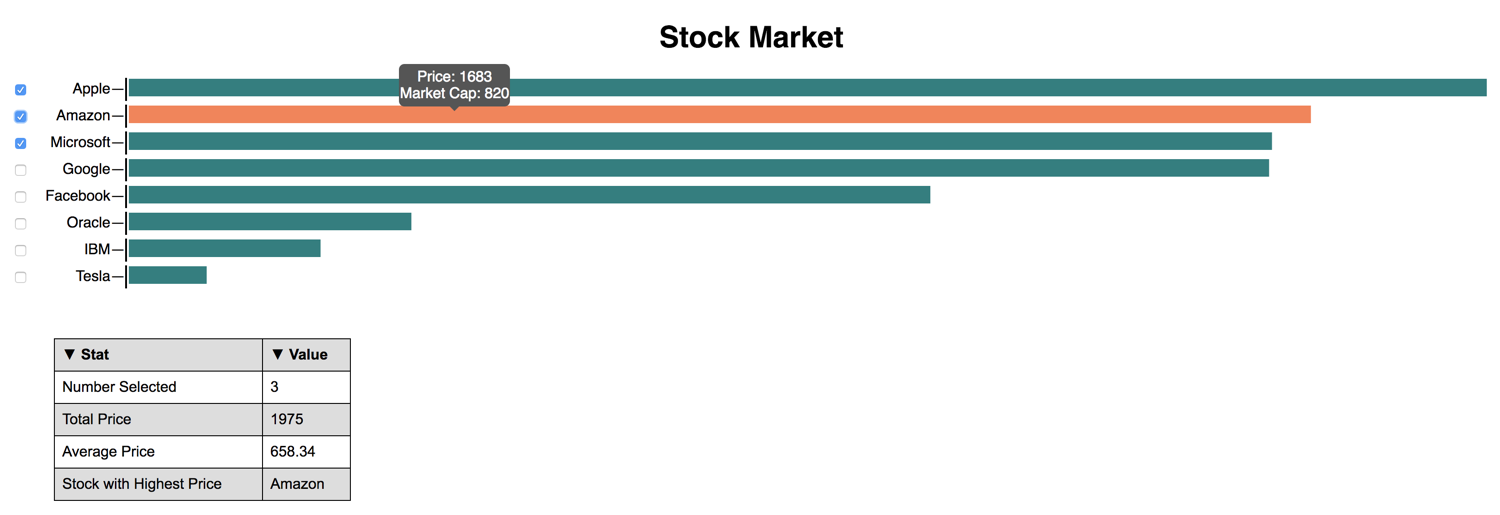
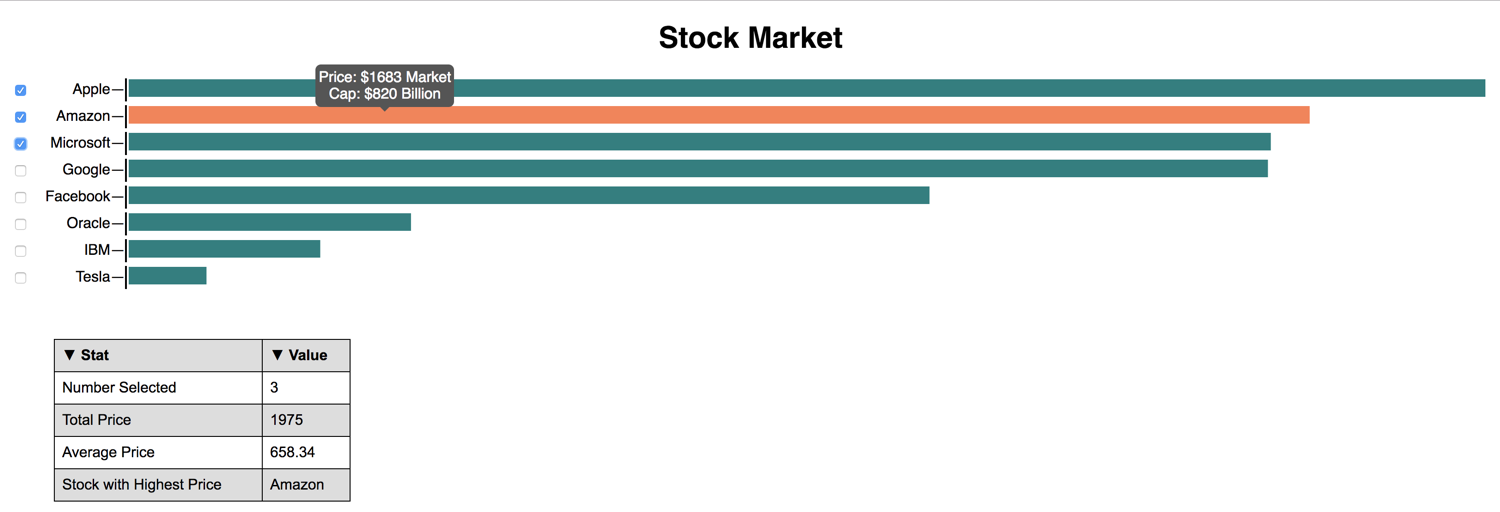
modify tooltip text and new image

diff --git a/stocks.js b/stocks.js
@@ -25,7 +25,7 @@ function renderChart(){
 	for (var i = 0; i < dataSet.length; i++){
 		// console.log(dataSet[i].marketCap);
 		$(".table-svg-chart").append("<tr class='tooltip' rowId="+ i +
-			"><td class='tdCheckbox'><input type='checkbox' class='chex'id='"+ i +"' value=''></td><td class='tdName'>"+ dataSet[i].name +"&#8212;"+"</td><td class='tdSvg'><svg version='1.1' xmlns='http://www.w3.org/2000/svg' xmlns:xlink='http://www.w3.org/1999/xlink' class='chart' width='100%' height='19' aria-labelledby='title' role='img'><g class='bar'><rect width='"+(dataSet[i].marketCap/dataSet[0].marketCap)*100 +"%' height='19'></rect></g></td><td><span class='tooltiptext'>Price: "+ dataSet[i].price +" Market Cap: "+ dataSet[i].marketCap +"</span></td></tr>"
+			"><td class='tdCheckbox'><input type='checkbox' class='chex'id='"+ i +"' value=''></td><td class='tdName'>"+ dataSet[i].name +"&#8212;"+"</td><td class='tdSvg'><svg version='1.1' xmlns='http://www.w3.org/2000/svg' xmlns:xlink='http://www.w3.org/1999/xlink' class='chart' width='100%' height='19' aria-labelledby='title' role='img'><g class='bar'><rect width='"+(dataSet[i].marketCap/dataSet[0].marketCap)*100 +"%' height='19'></rect></g></td><td><span class='tooltiptext'>Price: $"+ dataSet[i].price +" Market Cap: $"+ dataSet[i].marketCap +" Billion</span></td></tr>"
 		);
 	}
 }

diff --git a/stylesheet.css b/stylesheet.css
@@ -50,7 +50,7 @@ body {
 
 .tooltip .tooltiptext {
     visibility: hidden;
-    width: 120px;
+    width: 150px;
     background-color: #555;
     color: #fff;
     text-align: center;
@@ -60,7 +60,7 @@ body {
     z-index: 1;
     bottom: 85%;
     left: 30%;
-    margin-left: -60px;
+    margin-left: -150px;
     opacity: 0;
     transition: opacity 0.3s;
 }
